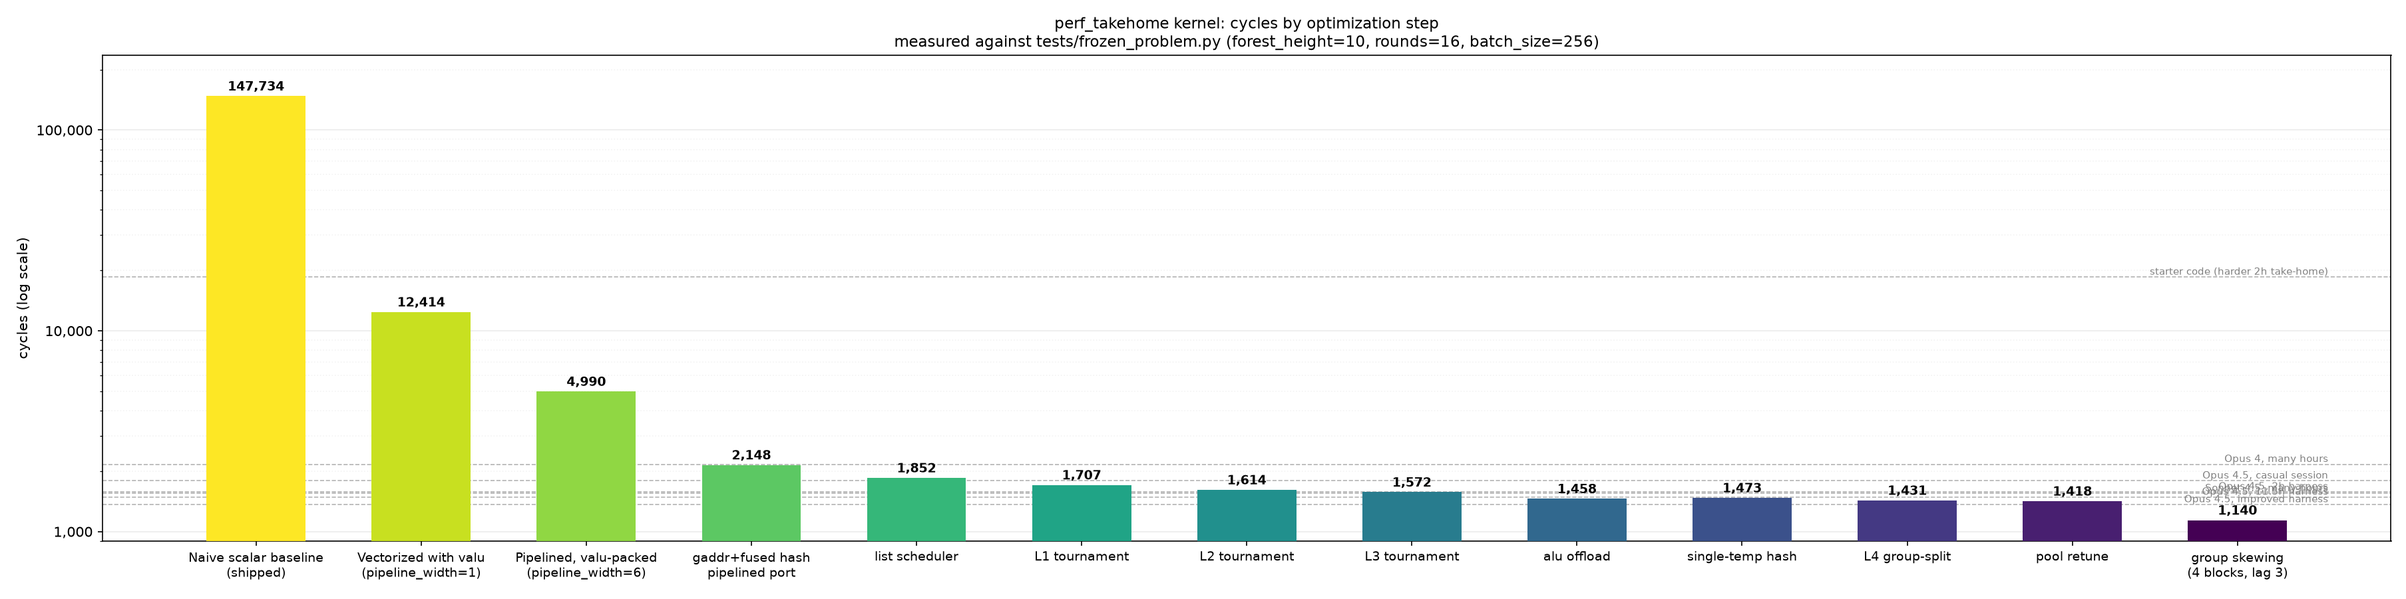
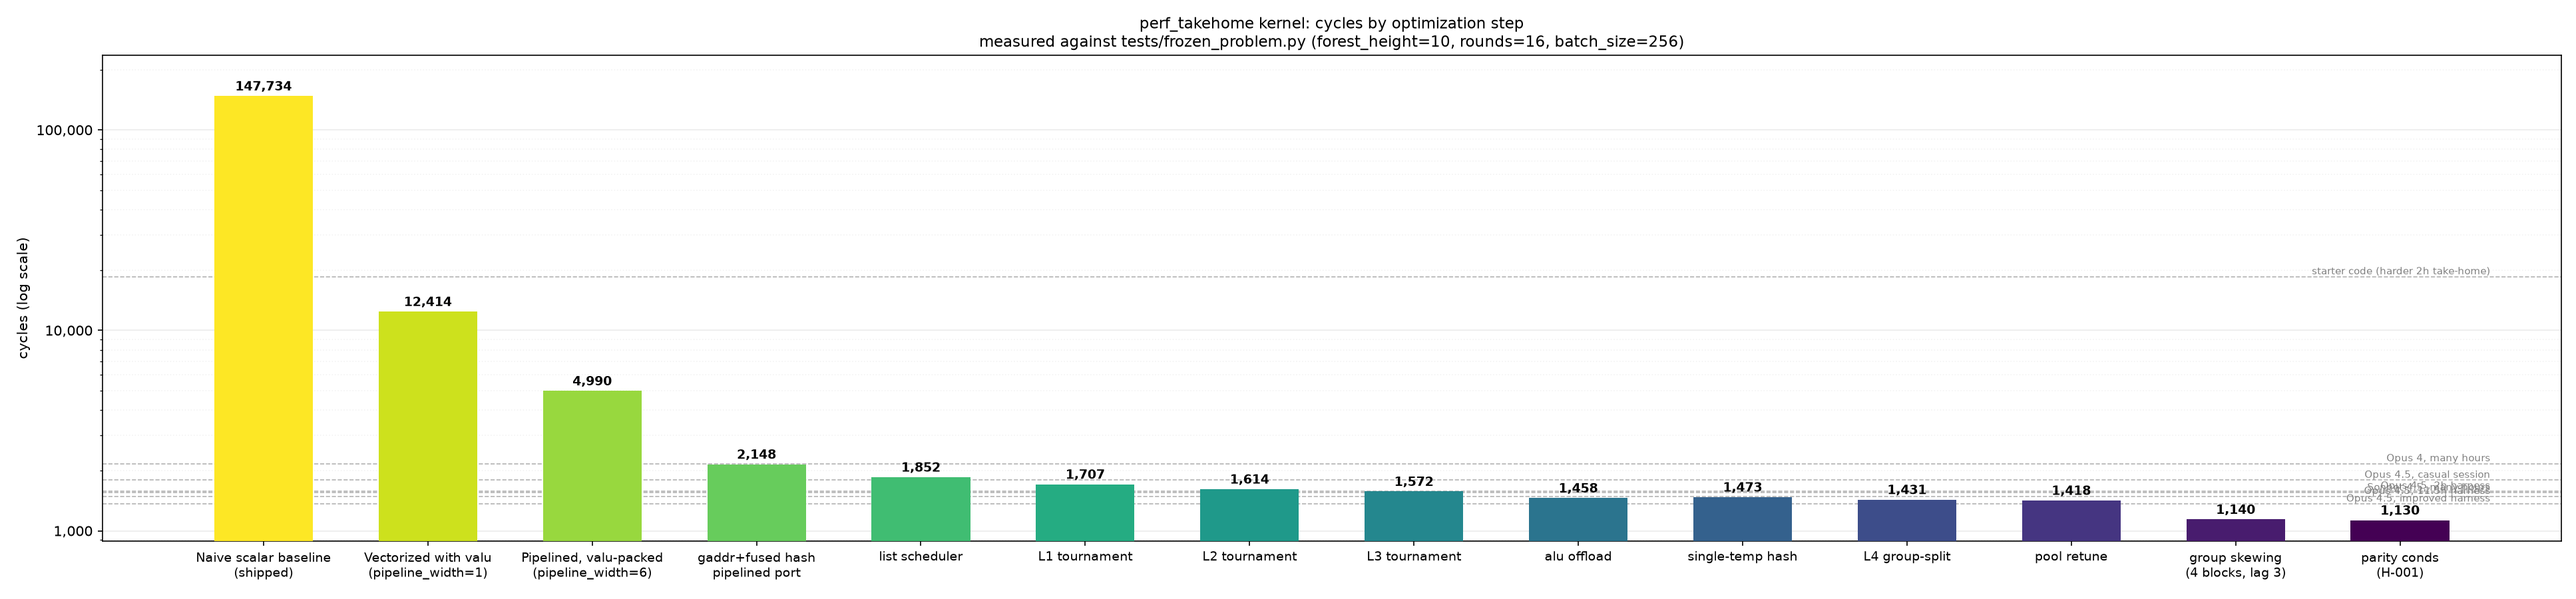
Iter 1 CLOSED: H-001 accepted, mainline 1140 -> 1130 (parity_conds flipped in dispatch)
Tournament conditions now come from raw parity vectors riding the dead nv
buffer instead of mask-extraction from the position accumulator; alu drops
94.6% -> 87.0% and valu becomes the binding engine (~1106 cycle-equiv).
Grader 9/9 green at 1130; progress log recorded. H-017/H-018 promoted.

Claude-Session: https://claude.ai/code/session_01FPDQQCWYWR2ENky8rcMJZn

diff --git a/tools/run_variant.py b/tools/run_variant.py
@@ -35,6 +35,7 @@ BASE_KWARGS = {
     "l4_gmin": (22, 28),
     "pool_sizes": (17, 4),
     "skew": (4, 3),
+    "parity_conds": True,  # H-001 accepted iter 1 (1140 -> 1130)
     "debug_compares": False,  # speed; grader ignores debug slots anyway
 }
 SHAPE = {"forest_height": 10, "batch_size": 256, "rounds": 16}

diff --git a/perf_takehome.py b/perf_takehome.py
@@ -223,6 +223,7 @@ class KernelBuilder:
             self.build_kernel_scheduled(
                 batch_size, rounds, forest_height,
                 tournament_levels=(1, 2, 3), alu_offload=True,
+                parity_conds=True,
             )
         else:
             self.build_kernel_pipelined(

diff --git a/research/backlog.md b/research/backlog.md
@@ -6,7 +6,7 @@ rejected | blocked(H-x) | superseded(H-x), result (measured @ commit), log.
 IDs never reused. Driver-only writes; agents propose follow-ups in their
 strain STATE.md and the driver promotes them here.
 
-### H-001 [strain: flow-balance] [status: testing]
+### H-001 [strain: flow-balance] [status: accepted]
 - statement: Eliminate/offload tournament condition-extraction ops (`& one_vec`,
   `& 2^k`, `>>`) from valu/alu. Prime variant: keep the last k per-group parity
   VECTORS alive (they are already computed each round for the state update)
@@ -16,8 +16,12 @@ strain STATE.md and the driver promotes them here.
   every 60 removed ~= 1 cycle; also shortens tournament dep chains.
 - cost: M. depends: none. CAUTION: scratch is FULL (1535/1536) — parity rings
   must be traded against pool_sizes/cond pools, not added.
-- result:
-- log: 2026-07-23 opened; assigned iter 1.
+- result: ACCEPTED iter 1: 1130 (-10) via zero-scratch reformulation (parity
+  rides dead nv; p-fold lags one round; L4 >> dies). Prime variant (parity
+  rings) infeasible (needs 848+ words). Gain under prediction because alu
+  slack absorbed most removed ops; valu is now the binding floor (6634/6 =
+  1106 cycle-equivalents vs 1130 actual). Mainline flipped; grader 9/9.
+- log: 2026-07-23 opened; assigned iter 1; ACCEPTED iter 1, dispatch flipped.
 
 ### H-002 [strain: critical-path] [status: rejected -> graveyard G-8]
 - statement: Parity-early — produce bit0 of the hashed value (the only bit the
@@ -177,3 +181,23 @@ strain STATE.md and the driver promotes them here.
 - predicted: uncertain; each hit -68 cyc. cost: S-M. depends: none.
 - result:
 - log: 2026-07-23 promoted from op-reduction P-3.
+
+### H-017 [strain: flow-balance] [status: open]
+- statement: madd->vselect flip of tournament FIRST-folds, nearly free under
+  parity_conds (H-001's P-1): store odd-value vectors O_vecs at setup (same
+  scratch as D_vecs), conds are raw parities, first fold becomes
+  vselect(b, O, E) on flow instead of madd(b, D, E) on valu. L4 alone moves
+  112 slots off valu (~19 cycle-equivalents); L1-L3 more.
+- predicted: -10..-30 cyc (valu now the binding floor at ~1106). cost: S-M.
+- depends: parity_conds (in mainline). Watch G-4: only first-folds, chain
+  length unchanged (vselect replaces madd at the same depth).
+- result:
+- log: 2026-07-23 promoted from flow-balance P-1; queued iter 2.
+
+### H-018 [strain: flow-balance] [status: open]
+- statement: valu madd diet: hunt the lagged p-fold madds and epoch-exit
+  conversion madds (feeds H-004's idx-elimination ideas) now that valu
+  throughput (not alu, not latency) is the binding constraint.
+- predicted: -5..-20 cyc. cost: M. depends: H-001 (in mainline).
+- result:
+- log: 2026-07-23 promoted from flow-balance P-2.

diff --git a/research/RESEARCH.md b/research/RESEARCH.md
@@ -7,11 +7,12 @@
 
 | cycles | commit | config |
 |---|---|---|
-| 1140 | b68a302 | `build_kernel_scheduled(tournament_levels=(1,2,3), alu_offload=True, l4_gmin=(22,28), pool_sizes=(17,4), skew=(4,3))` |
+| 1130 | (iter-1 close) | `build_kernel_scheduled(tournament_levels=(1,2,3), alu_offload=True, parity_conds=True)` + tuned defaults |
 
 ## Floors (calibrated 2026-07-23, see tools/diagnose_kernel.py)
 
-- Op-mix floor of current design: ~1111 (alu+valu saturated: valu 98.2%, alu 94.6%)
+- Op-mix floor: valu is now THE binding engine: 6634 valu slots / 6 = ~1106
+  cycle-equivalents at 1130 actual (alu relieved to 87.0% by H-001).
 - Flow-offload ceiling: floor -> ~962 if routing/idx arithmetic moves to flow (29.6% used)
 - Load floor: 1,936 gathers / 2 per cyc = 968 (load 87.4% busy)
 - Hash-only absolute floor: 49,152 lane-ops / 60 per cyc = 819
@@ -34,8 +35,9 @@ Global: 6 dry iterations -> one cross-pollination iteration. Status report to us
 
 (one line per iteration: `iter N | H-ids tested | results | best after`)
 
-- iter 1 (in flight) | H-005 sweep: 978 configs, 0 < 1140, params exhausted (phases 1+2). H-002 parity-early: REJECTED (chain exists, depth 8 vs 10, but valu-throughput-bound; 1145-1198) -> G-8; H-008 tested under enabler: REJECTED (1270+) -> G-9; side finding +32 scratch words free via (17,3). H-003 fusion search: CLOSED negative (~400B candidates, no shorter form) -> G-10, byproducts 2-op parity + C5-commute -> H-015 (mainline candidate, -45..-60 predicted) + H-016. H-001 agent still running | best 1140
+- iter 1 (in flight) | H-005 sweep: 978 configs, 0 < 1140, params exhausted (phases 1+2). H-002 parity-early: REJECTED (chain exists, depth 8 vs 10, but valu-throughput-bound; 1145-1198) -> G-8; H-008 tested under enabler: REJECTED (1270+) -> G-9; side finding +32 scratch words free via (17,3). H-003 fusion search: CLOSED negative (~400B candidates, no shorter form) -> G-10, byproducts 2-op parity + C5-commute -> H-015 (mainline candidate, -45..-60 predicted) + H-016. H-001 parity_conds: ACCEPTED 1130 (-10), mainline flipped, alu 94.6->87.0. ITERATION 1 CLOSED: 1 accept, 3 high-value negatives (G-8/G-9/G-10), 2 new mainline candidates queued (H-015, H-017) | best 1130
 
 ## Milestones
 
 - 2026-07-23: loop initialized at 1140 (commit b68a302). Target 1000.
+- 2026-07-23: iter 1 -> 1130 (H-001 parity_conds). First loop accept.
